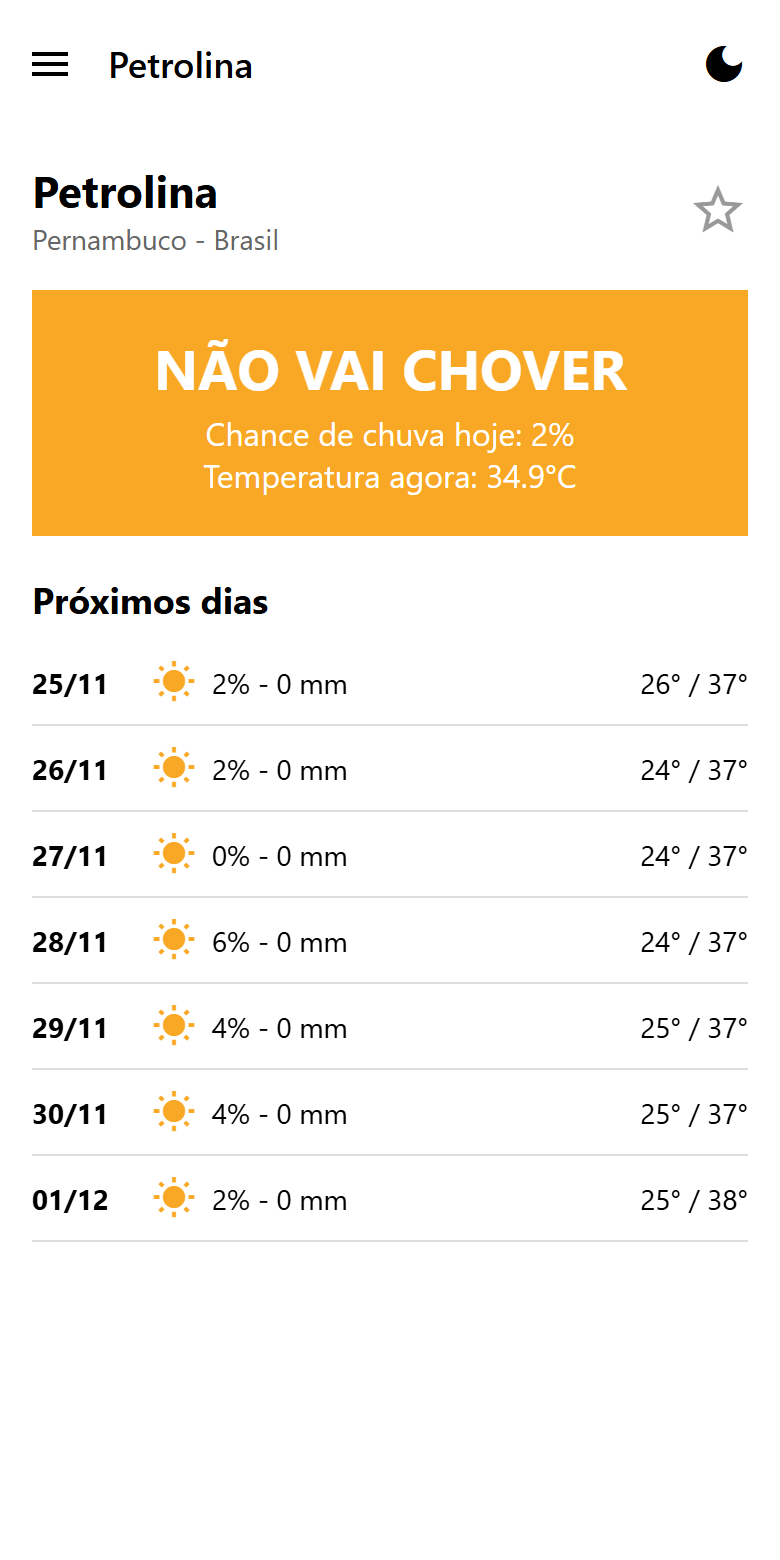
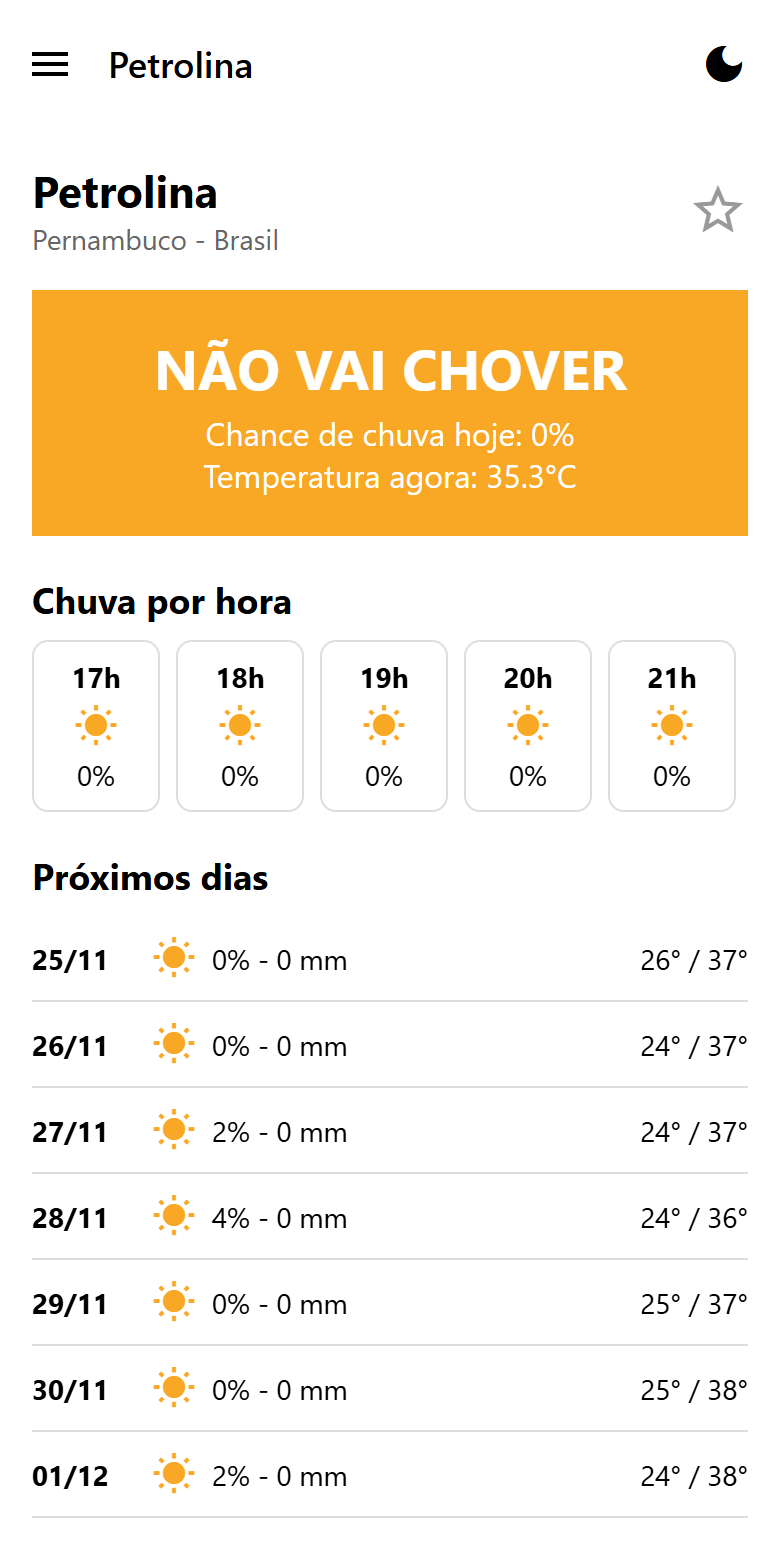
Atualiza prints do protótipo com a chuva por hora

diff --git a/README.md b/README.md
@@ -170,7 +170,7 @@ Telas do protótipo funcional (pasta `app/`):
 | Tela | Descrição |
 |---|---|
 | 1. Buscar cidade | Campo para digitar a cidade, botão BUSCAR e lista de resultados. |
-| 2. Previsão (chuva) | Chance de chuva de 50% ou mais: aviso VAI CHOVER em azul. |
+| 2. Previsão (chuva) | Chance de chuva de 50% ou mais: aviso VAI CHOVER em azul, chuva por hora e próximos dias. |
 | 3. Previsão (sem chuva) | Chance de chuva menor que 50%: aviso NÃO VAI CHOVER em amarelo. |
 | 4. Favoritas | Cidades salvas com a estrela. |
 | 5. Sobre | Informações do app e alunos responsáveis. |
